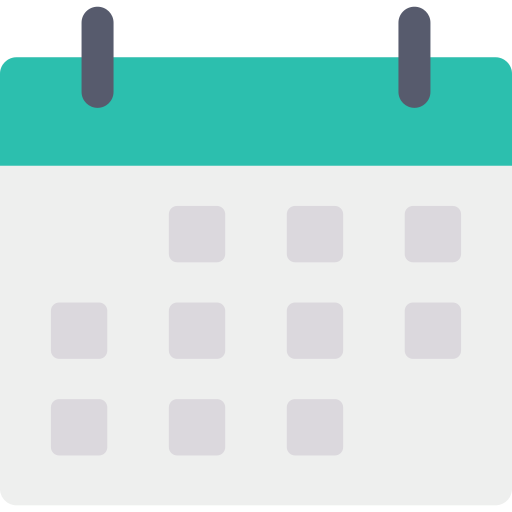
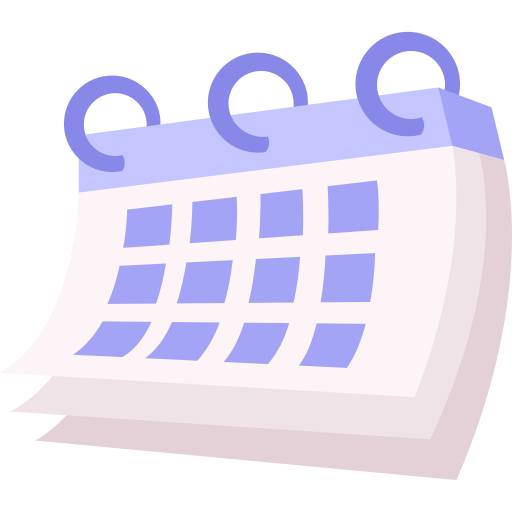
refactoring the add task view

diff --git a/lib/widgets/task_builder.dart b/lib/widgets/task_builder.dart
@@ -44,8 +44,8 @@ class TaskBuilder extends StatelessWidget {
 
           const SizedBox(width: 8),
           IconButton(
-            icon: const Icon(Icons.delete_outline, color: Colors.redAccent),
             onPressed: () {},
+            icon: Image.asset("assets/trash.png", height: 30, width: 30),
           ),
         ],
       ),